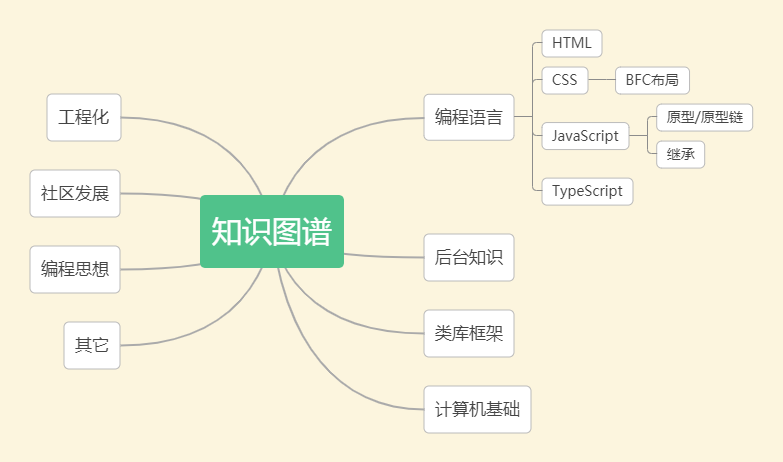
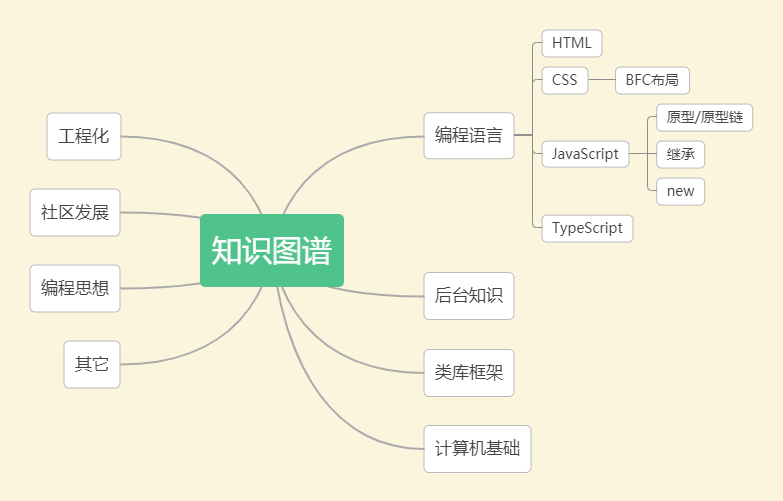
docs: new

diff --git a/Language/JavaScript/new的原理及模拟实现.md b/Language/JavaScript/new的原理及模拟实现.md
@@ -1,0 +1,65 @@
+### new的过程
+
+new 运算符创建一个用户定义的对象类型的实例或具有构造函数的内置对象的实例。new 关键字会进行如下的操作：
+
+1. 创建一个新对象
+2. 将构造函数的作用域赋给新对象(因此this就指向了这个新对象)
+3. 执行构造函数中的代码(为这个新对象添加属性)
+4. 返回新对象
+
+```
+        function Person(name, age, job) {
+            this.name = name;
+            this.age = age;
+            this.job = job;
+            this.sayName = function () {
+                console.log('name: ', this.name)
+            }
+        }
+
+        const person1 = new Person('levin', 20, 'Software Engineer');
+```
+
+即:
+
+1. 创建一个空对象person1
+2. 绑定原型，person1.__proto__ = Person.prototype
+3. 调用 Person() 函数，并把空对象 person1 当做 this 传入，即 Person.call(person1)
+4. 如果 Person() 函数执行完自己 return 一个 object 类型，那么返回此变量，否则返回 this，注意：如果构造函数返回基本类型值，则不影响，还是返回 this
+
+### 模拟new
+
+- new产生的实例可以访问Constructor里的属性，也可以访问到Constructor.prototype中的属性，前者可以通过apply来实现，后者可以通过将实例的proto属性指向构造函数的prototype来实现
+- 我们还需要判断返回的值是不是一个对象，如果是一个对象，我们就返回这个对象，如果没有，我们该返回什么就返回什么
+
+```
+        function New() {
+            let obj = new Object();
+            // 取出第一个参数，就是我们要传入的构造函数；此外因为shift会修改原数组，所以arguments会被去除第一个参数
+            let Constructor = [].shift.call(arguments);
+            // 将obj的原型指向构造函数，这样obj就可以访问到构造函数原型中的属性
+            obj.__proto__ = Constructor.prototype;
+            // 使用apply改变构造函数this的指向到新建的对象，这样obj就可以访问到构造函数中的属性
+            const ret = Constructor.apply(obj, arguments);
+            // 要返回obj
+            return (typeof ret === "object" || typeof ret === "function") && ret !== null ? ret : obj;
+        }
+
+        function Person(name) {
+            this.name = name;
+        }
+
+        Person.prototype.getName = function () {
+            return this.name;
+        }
+
+        const p1 = New(Person, 'leon');
+        console.log(p1);
+        console.log(p1.getName());
+```
+
+### 参考
+
+- https://juejin.im/post/590a99015c497d005852cf26
+- https://juejin.im/post/5bde7c926fb9a049f66b8b52
+- https://developer.mozilla.org/zh-CN/docs/Web/JavaScript/Reference/Operators/new

diff --git a/README.md b/README.md
@@ -21,3 +21,4 @@
 
 - [原型](Language/JavaScript/原型.md)
 - [继承](Language/JavaScript/继承.md)
+- [new的原理及模拟实现](Language/JavaScript/new的原理及模拟实现.md)
